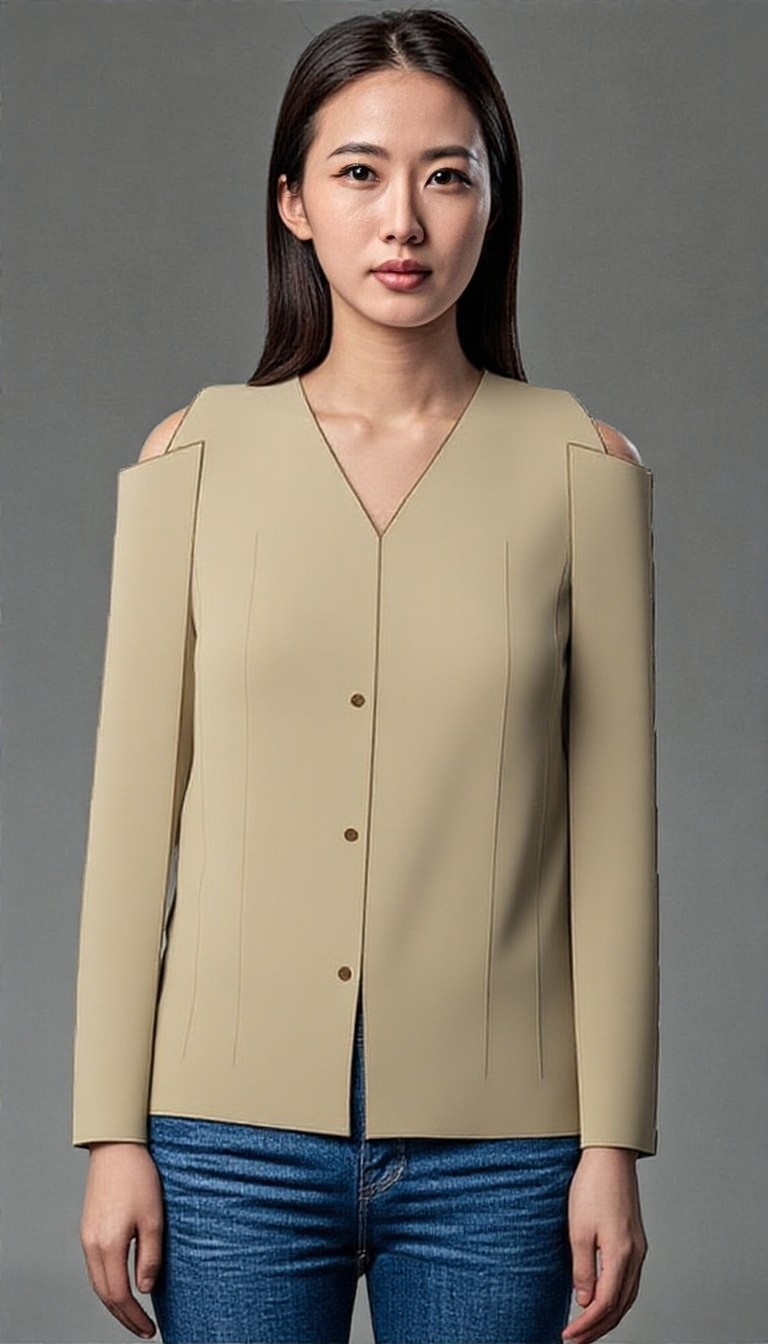
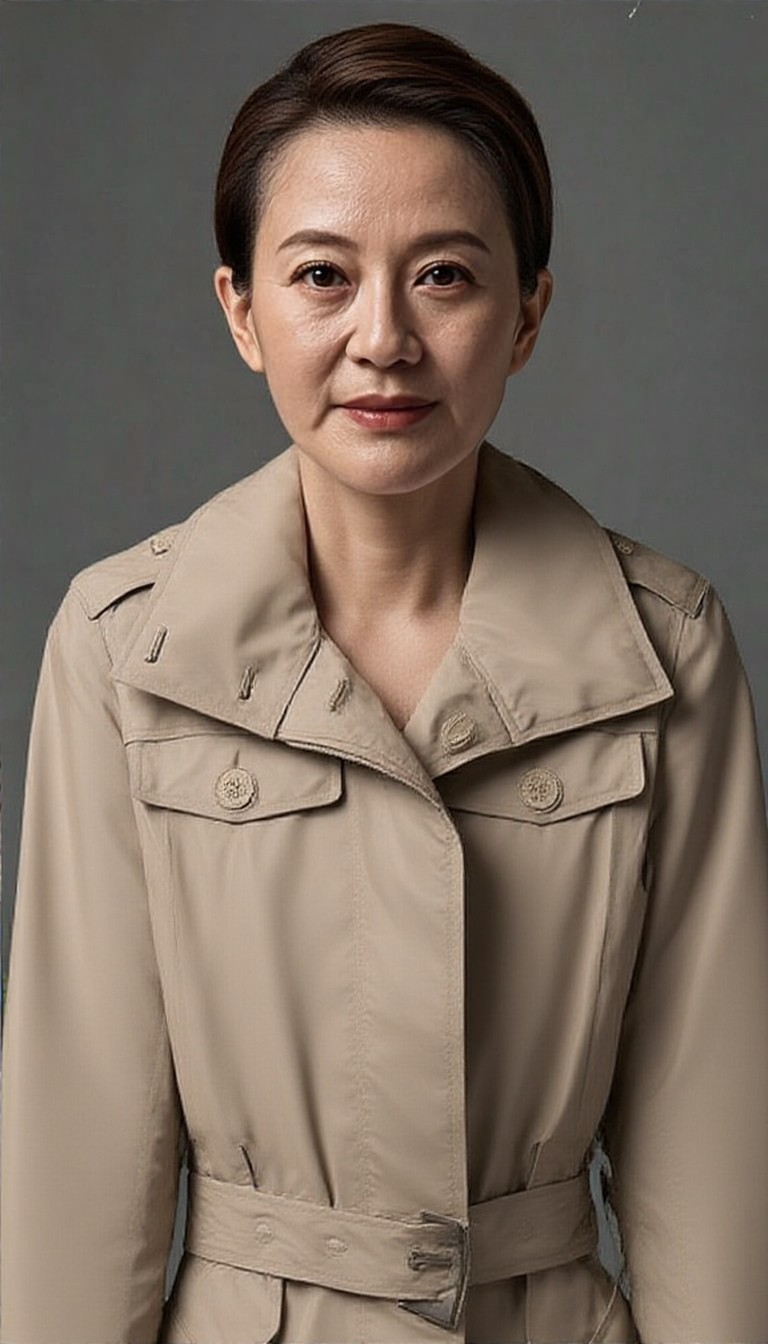
feat: expand Crystal's Closet to 9 garments (2 replacements + 3 additions)
Replace 2 underperforming garments and add 3 new ones, bringing the
final submission lineup from 6 to 9 garments.

Replacements:
- Black Structured Dress (BORDERLINE, mid-torso smudging) -> Black
  Floral Wrap Maxi Dress (BORDERLINE, comparable quality, fresher
  silhouette)
- Vintage Beige Trench Coat (BORDERLINE, hip overlap artifact) ->
  Sage Utility Jacket (PASS, cleaner outerwear result)

Additions:
- Red Short-Sleeve Dress (PASS, professional-tier result)
- Beige Linen-Feel Dress (PASS, clean natural drape)
- Black Ruffle Mini Dress (BORDERLINE, waist discontinuity + side
  fabric artifact; usable for fast demo cuts but not close-ups)

All 5 new garments ran successfully through the real YouCam Apparel
VTO API against sample-person-crystal.jpg (avg ~11s per call).

Changes:
- public/garments/: 5 new JPGs (600x800, white-bg, brand labels
  masked where present). 2 retired JPGs removed.
- src/lib/garments.ts: 9-entry DEFAULT_GARMENTS array. Removed
  black-structured-dress and vintage-beige-trench entries. Added 5
  new entries with descriptive names, no prices, purchase-risk
  categories, and roast lines.
- src/lib/copy.ts: garment step body now says 'Nine garments...'
- scripts/test-crystal-closet-vto.ts: GARMENTS list updated to 9.
- scripts/test-youcam-api.ts: default test garment path updated to
  sage-utility-jacket.jpg.
- README.md: updated all garment counts from 6 to 9.
- download/vto-test-*.jpg + vto-test-summary.json: refreshed with
[…]

diff --git a/src/lib/garments.ts b/src/lib/garments.ts
@@ -1,7 +1,7 @@
 import type { Garment, GarmentCategory } from "./types";
 
 /**
- * Crystal's Closet — six default garments for the final YouCam hackathon
+ * Crystal's Closet — nine default garments for the final YouCam hackathon
  * submission.
  *
  * Sample garment photographs are original photos supplied by the project
@@ -128,38 +128,92 @@ export const DEFAULT_GARMENTS: Garment[] = [
     isDefault: true,
   },
   {
-    id: "black-structured-dress",
-    name: "Black Structured Dress",
+    id: "black-floral-wrap-maxi-dress",
+    name: "Black Floral Wrap Maxi Dress",
     price: 0,
     currency: "USD",
-    material: "Structured woven fabric; notched lapel, puff sleeve, side-tie",
-    care: "Dry clean recommended. Steam to refresh.",
+    material: "Black woven with vibrant floral print; wrap bodice, short sleeve, V-neck",
+    care: "Hand wash or gentle cycle. Hang to dry.",
     type: "Dress",
-    category: "false-investment",
-    categoryLabel: GARMENT_CATEGORIES["false-investment"].label,
-    purchaseTension: GARMENT_CATEGORIES["false-investment"].tension,
-    imageUrl: "/garments/black-structured-dress.jpg",
+    category: "unclear-occasion",
+    categoryLabel: GARMENT_CATEGORIES["unclear-occasion"].label,
+    purchaseTension: GARMENT_CATEGORIES["unclear-occasion"].tension,
+    imageUrl: "/garments/black-floral-wrap-maxi-dress.jpg",
     roastLines: [
-      "Calling a black dress 'timeless' does not mean it will get worn.",
-      "Structure adds presence. It also adds dry-cleaning.",
+      "A floral maxi is a story you tell yourself about a future event.",
+      "Wrap silhouettes photograph well and untie in transit.",
     ],
     isDefault: true,
   },
   {
-    id: "vintage-beige-trench",
-    name: "Vintage Beige Trench Coat",
+    id: "sage-utility-jacket",
+    name: "Sage Utility Jacket",
     price: 0,
     currency: "USD",
-    material: "Cotton-twill trench; notched lapel, belted waist, long sleeve",
-    care: "Dry clean only. Air out between wears. Store on a wide hanger.",
+    material: "Cotton-twill utility jacket; hood, button-over-zip front, chest + hip pockets",
+    care: "Machine wash cold. Tumble dry low. Re-shape while damp.",
     type: "Outerwear",
-    category: "false-investment",
-    categoryLabel: GARMENT_CATEGORIES["false-investment"].label,
-    purchaseTension: GARMENT_CATEGORIES["false-investment"].tension,
-    imageUrl: "/garments/vintage-beige-trench.jpg",
+    category: "aspirational-identity",
+    categoryLabel: GARMENT_CATEGORIES["aspirational-identity"].label,
+    purchaseTension: GARMENT_CATEGORIES["aspirational-identity"].tension,
+    imageUrl: "/garments/sage-utility-jacket.jpg",
     roastLines: [
-      "A trench coat is the most photographed coat you will own and the most forgotten.",
-      "Vintage means character — and a dry-cleaning relationship.",
+      "A utility jacket suggests an outdoor life you have not yet scheduled.",
+      "Pockets are not a life plan, even when there are six of them.",
+    ],
+    isDefault: true,
+  },
+  {
+    id: "red-short-sleeve-dress",
+    name: "Red Short-Sleeve Dress",
+    price: 0,
+    currency: "USD",
+    material: "Red woven with black trim; short sleeve, boat neck, ruched shoulder detail",
+    care: "Machine wash cold inside out. Hang to dry.",
+    type: "Dress",
+    category: "one-time-scenario",
+    categoryLabel: GARMENT_CATEGORIES["one-time-scenario"].label,
+    purchaseTension: GARMENT_CATEGORIES["one-time-scenario"].tension,
+    imageUrl: "/garments/red-short-sleeve-dress.jpg",
+    roastLines: [
+      "A red dress for one occasion is a long-term closet commitment.",
+      "Black trim is detail. The price tag is the detail that matters.",
+    ],
+    isDefault: true,
+  },
+  {
+    id: "beige-linen-feel-dress",
+    name: "Beige Linen-Feel Dress",
+    price: 0,
+    currency: "USD",
+    material: "Beige woven with linen-like hand; cap sleeve, round neck, button placket, hip pockets",
+    care: "Machine wash cold. Hang to dry. Warm iron if needed.",
+    type: "Dress",
+    category: "unclear-occasion",
+    categoryLabel: GARMENT_CATEGORIES["unclear-occasion"].label,
+    purchaseTension: GARMENT_CATEGORIES["unclear-occasion"].tension,
+    imageUrl: "/garments/beige-linen-feel-dress.jpg",
+    roastLines: [
+      "A beige dress is the most versatile thing you will never wear.",
+      "Linen-feel wrinkles like real linen and forgives like polyester.",
+    ],
+    isDefault: true,
+  },
+  {
+    id: "black-ruffle-mini-dress",
+    name: "Black Ruffle Mini Dress",
+    price: 0,
+    currency: "USD",
+    material: "Black woven with ruffled bib front and shoulder bow; sleeveless, high neck",
+    care: "Hand wash cold. Lay flat to dry. Steam ruffles gently.",
+    type: "Dress",
+    category: "one-time-scenario",
+    categoryLabel: GARMENT_CATEGORIES["one-time-scenario"].label,
+    purchaseTension: GARMENT_CATEGORIES["one-time-scenario"].tension,
+    imageUrl: "/garments/black-ruffle-mini-dress.jpg",
+    roastLines: [
+      "Ruffles and a bow is a costume for an event you cannot name.",
+      "The mini dress photographs louder than it lives.",
     ],
     isDefault: true,
   },

diff --git a/scripts/test-crystal-closet-vto.ts b/scripts/test-crystal-closet-vto.ts
@@ -42,12 +42,15 @@ interface GarmentSpec {
 }
 
 const GARMENTS: GarmentSpec[] = [
-  { slug: "yellow-floral-dress",     name: "Yellow Floral Dress",         type: "Dress",     imageUrl: "/garments/yellow-floral-dress.jpg" },
-  { slug: "black-white-check-dress", name: "Black & White Check Dress",   type: "Dress",     imageUrl: "/garments/black-white-check-dress.jpg" },
-  { slug: "lavender-maxi-dress",     name: "Lavender Maxi Dress",         type: "Dress",     imageUrl: "/garments/lavender-maxi-dress.jpg" },
-  { slug: "black-white-lace-top",    name: "Black & White Lace Top",      type: "Top",       imageUrl: "/garments/black-white-lace-top.jpg" },
-  { slug: "black-structured-dress",  name: "Black Structured Dress",      type: "Dress",     imageUrl: "/garments/black-structured-dress.jpg" },
-  { slug: "vintage-beige-trench",    name: "Vintage Beige Trench Coat",   type: "Outerwear", imageUrl: "/garments/vintage-beige-trench.jpg" },
+  { slug: "yellow-floral-dress",          name: "Yellow Floral Dress",          type: "Dress",     imageUrl: "/garments/yellow-floral-dress.jpg" },
+  { slug: "black-white-check-dress",      name: "Black & White Check Dress",    type: "Dress",     imageUrl: "/garments/black-white-check-dress.jpg" },
+  { slug: "lavender-maxi-dress",          name: "Lavender Maxi Dress",          type: "Dress",     imageUrl: "/garments/lavender-maxi-dress.jpg" },
+  { slug: "black-white-lace-top",         name: "Black & White Lace Top",       type: "Top",       imageUrl: "/garments/black-white-lace-top.jpg" },
+  { slug: "black-floral-wrap-maxi-dress", name: "Black Floral Wrap Maxi Dress", type: "Dress",     imageUrl: "/garments/black-floral-wrap-maxi-dress.jpg" },
+  { slug: "sage-utility-jacket",          name: "Sage Utility Jacket",          type: "Outerwear", imageUrl: "/garments/sage-utility-jacket.jpg" },
+  { slug: "red-short-sleeve-dress",       name: "Red Short-Sleeve Dress",       type: "Dress",     imageUrl: "/garments/red-short-sleeve-dress.jpg" },
+  { slug: "beige-linen-feel-dress",       name: "Beige Linen-Feel Dress",       type: "Dress",     imageUrl: "/garments/beige-linen-feel-dress.jpg" },
+  { slug: "black-ruffle-mini-dress",      name: "Black Ruffle Mini Dress",      type: "Dress",     imageUrl: "/garments/black-ruffle-mini-dress.jpg" },
 ];
 
 async function loadEnvLocal() {

diff --git a/scripts/test-youcam-api.ts b/scripts/test-youcam-api.ts
@@ -71,9 +71,9 @@ async function main() {
 
   const personPath = path.join(process.cwd(), "public", "sample-person-real.jpg");
   // Use one of the Crystal's Closet garments as the default test garment.
-  // The trench coat exercises the Outerwear / upper_body mapping and tends
-  // to produce a stable, easy-to-judge VTO result.
-  const garmentPath = path.join(process.cwd(), "public", "garments", "vintage-beige-trench.jpg");
+  // The sage utility jacket exercises the Outerwear / upper_body mapping and
+  // produces a stable, easy-to-judge VTO result.
+  const garmentPath = path.join(process.cwd(), "public", "garments", "sage-utility-jacket.jpg");
 
   if (!existsSync(personPath)) {
     console.error(`❌ Person photo not found: ${personPath}`);

diff --git a/src/lib/copy.ts b/src/lib/copy.ts
@@ -182,7 +182,7 @@ export const UI_COPY = {
   },
   garment: {
     heading: "Pick your suspect.",
-    body: "Six garments from the creator's pre-owned wardrobe cover the most common purchase-risk patterns. You can also upload your own.",
+    body: "Nine garments from the creator's pre-owned wardrobe cover the most common purchase-risk patterns. You can also upload your own.",
     defaultTab: "Lineup",
     customTab: "Upload your own",
     selectCta: "Select this garment",

diff --git a/README.md b/README.md
@@ -17,14 +17,14 @@ The product is **not anti-shopping**. It is **anti-impulse shopping**. The syste
 ### The five-step flow
 
 1. **Upload a photo** — full-body or half-body, camera or file upload.
-2. **Pick a garment** — six garments from **Crystal's Closet** (the creator's pre-owned wardrobe) covering distinct purchase-risk categories, or upload your own.
+2. **Pick a garment** — nine garments from **Crystal's Closet** (the creator's pre-owned wardrobe) covering distinct purchase-risk categories, or upload your own.
 3. **Virtual try-on** — YouCam Apparel VTO generates a composite. Falls back to a clearly-labeled pre-generated demo result if the API is unavailable.
 4. **Five honest questions** — occasion, duplication, budget, care, regret.
 5. **Verdict card** — one of four explainable verdicts with score, evidence, roast lines, and a constructive closing note.
 
 ### Crystal's Closet — sample garment provenance
 
-The six default garments in this submission are **Crystal's Closet** — original photographs taken by the project creator of clothing from her own pre-owned wardrobe.
+The nine default garments in this submission are **Crystal's Closet** — original photographs taken by the project creator of clothing from her own pre-owned wardrobe.
 
 > Sample garment photographs are original photos supplied by the project creator from her personal pre-owned wardrobe.
 
@@ -196,7 +196,7 @@ The app supports three clearly-labeled states on the try-on result page:
 
 The pre-generated result trio (`fallback-person.jpg`, `fallback-garment.jpg`, `fallback-result.jpg`) is shipped in `public/demo/` so reviewers can verify the trio matches.
 
-The final hackathon submission must demonstrate real YouCam API integration, which is verified in the P0 report (`download/P0-YouCam-API-驗證報告.md`) and the six-garment VTO test outputs in `download/vto-test-*.jpg`.
+The final hackathon submission must demonstrate real YouCam API integration, which is verified in the P0 report (`download/P0-YouCam-API-驗證報告.md`) and the nine-garment VTO test outputs in `download/vto-test-*.jpg`.
 
 ---
 
@@ -273,7 +273,7 @@ src/
 │   └── ui/                     # shadcn/ui primitives
 └── lib/
     ├── types.ts                # Domain types
-    ├── garments.ts             # Crystal's Closet — 6 default garments + attribution
+    ├── garments.ts             # Crystal's Closet — 9 default garments + attribution
     ├── questions.ts            # 5 questions, scoring matrix
     ├── copy.ts                 # English copy library + UI strings
     ├── verdicts.ts             # Verdict definitions + thresholds
@@ -283,12 +283,12 @@ src/
 
 scripts/
 ├── test-youcam-api.ts          # P0 verification script (real API test, single garment)
-├── test-crystal-closet-vto.ts  # Final-submission VTO test — runs all 6 Crystal's Closet garments
+├── test-crystal-closet-vto.ts  # Final-submission VTO test — runs all 9 Crystal's Closet garments
 ├── probe-youcam.ts             # Diagnostic script for API field discovery
 └── make-sample-person.ts       # Generate placeholder person photo
 
 public/
-├── garments/                   # 6 Crystal's Closet garment JPGs (600x800, labels masked)
+├── garments/                   # 9 Crystal's Closet garment JPGs (600x800, labels masked)
 ├── sample-person.jpg           # Placeholder person photo (silhouette)
 ├── sample-person-real.jpg      # AI-generated realistic person photo (P0 testing)
 └── sample-person-crystal.jpg   # Creator-supplied full-body person photo (Crystal's Closet testing)
@@ -312,7 +312,7 @@ download/                       # Verification evidence (committed)
 1. Open the app.
 2. Click **Begin the interrogation**.
 3. Upload `public/sample-person-crystal.jpg` (or your own photo).
-4. Pick one of the six Crystal's Closet garments (or upload your own).
+4. Pick one of the nine Crystal's Closet garments (or upload your own).
 5. Wait for the try-on result (real API if key is set, pre-generated demo otherwise).
 6. Answer the five questions.
 7. Read your verdict.
@@ -325,13 +325,13 @@ download/                       # Verification evidence (committed)
 # 2. Run the single-garment verification script
 bun run scripts/test-youcam-api.ts
 
-# Or: run all 6 Crystal's Closet garments in one pass
+# Or: run all 9 Crystal's Closet garments in one pass
 bun run scripts/test-crystal-closet-vto.ts
 ```
 
-`test-youcam-api.ts` runs the full YouCam flow with a single garment (vintage-beige-trench) and saves the result image to `download/youcam-real-result.jpg`.
+`test-youcam-api.ts` runs the full YouCam flow with a single garment (sage-utility-jacket) and saves the result image to `download/youcam-real-result.jpg`.
 
-`test-crystal-closet-vto.ts` runs all six Crystal's Closet garments through the real YouCam API using `public/sample-person-crystal.jpg`, saves each result to `download/vto-test-<slug>.jpg`, and writes a machine-readable summary to `download/vto-test-summary.json`. Supports `--only <slug>` for single-garment re-runs.
+`test-crystal-closet-vto.ts` runs all nine Crystal's Closet garments through the real YouCam API using `public/sample-person-crystal.jpg`, saves each result to `download/vto-test-<slug>.jpg`, and writes a machine-readable summary to `download/vto-test-summary.json`. Supports `--only <slug>` for single-garment re-runs.
 
 ### Verdict path testing
 
